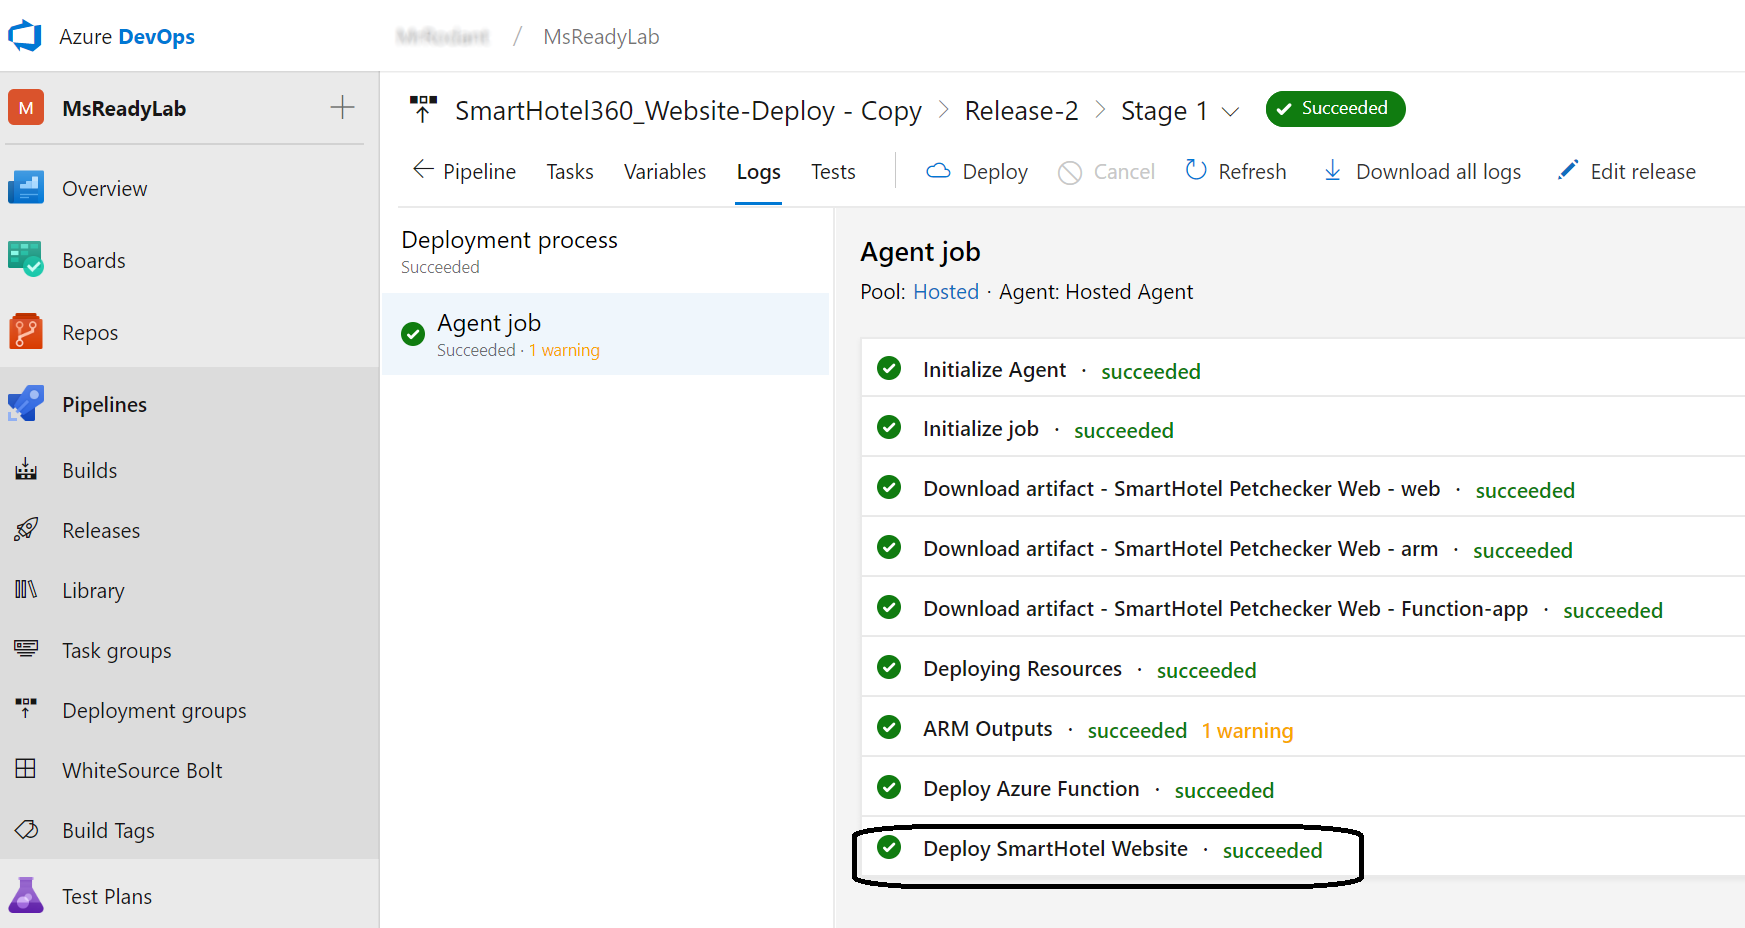
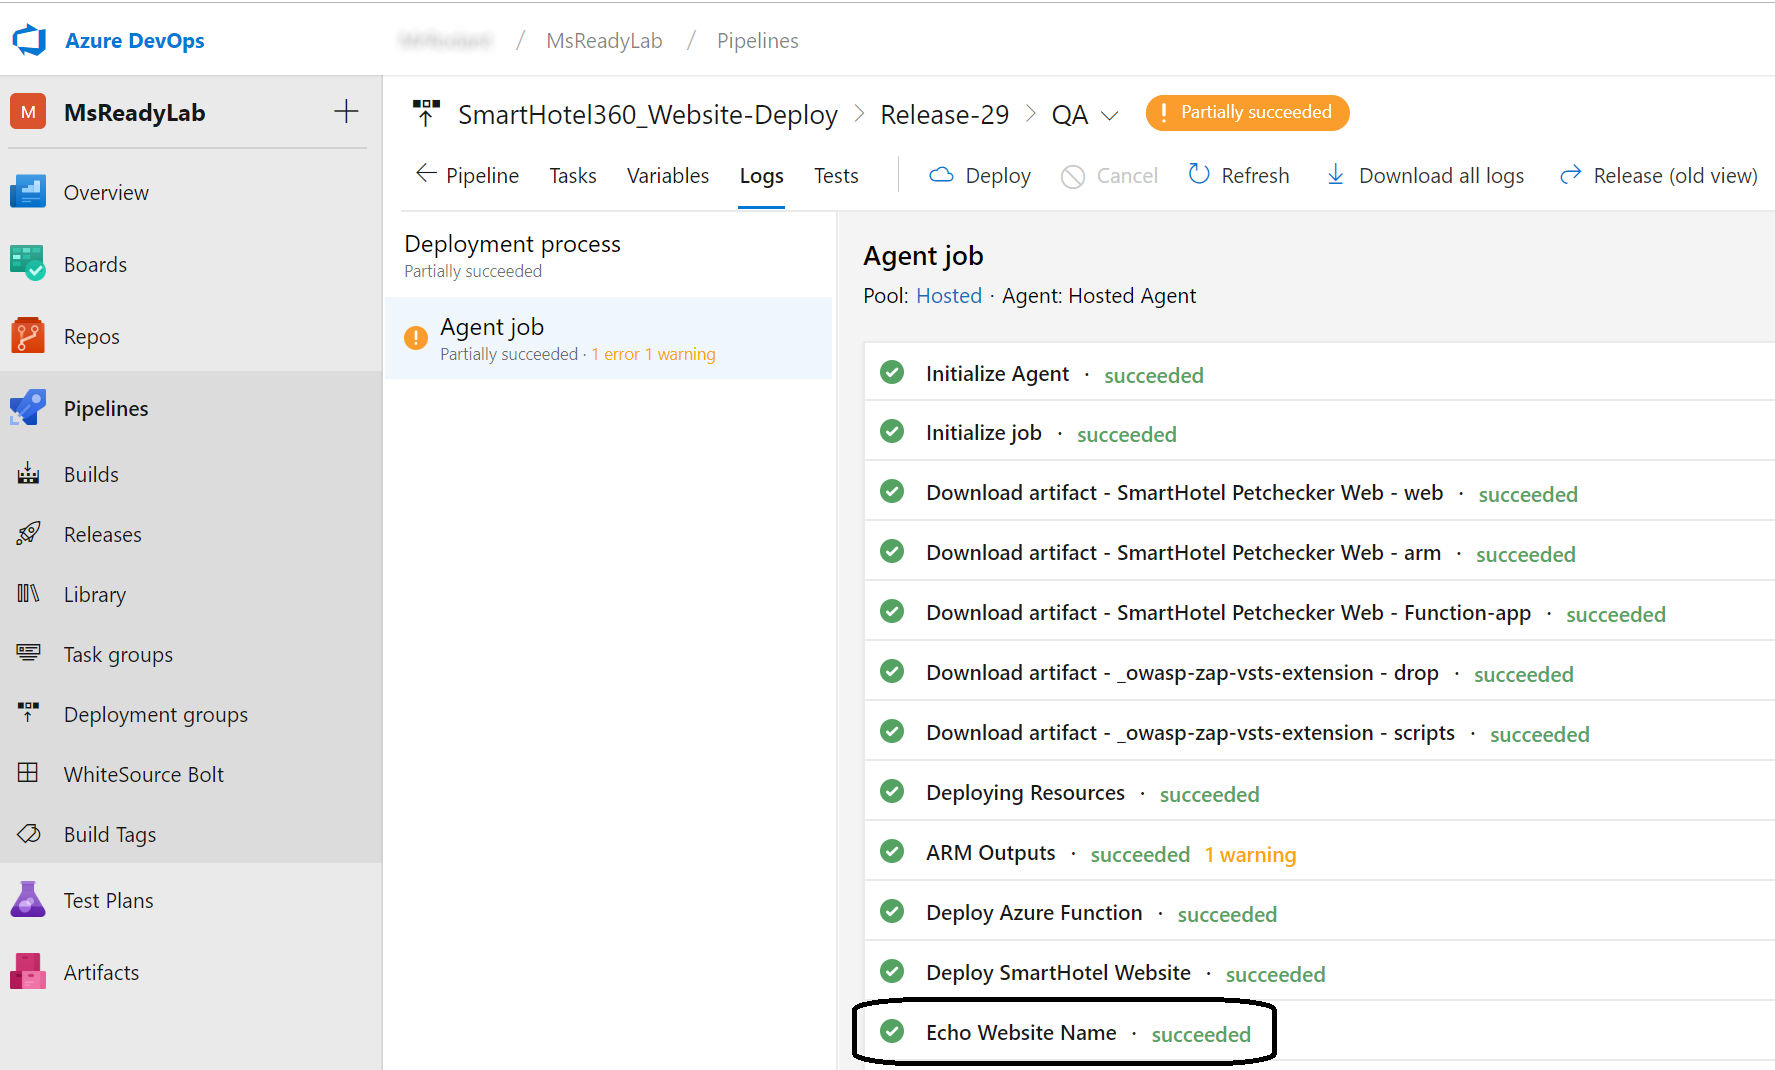
make it easier to get the Website URL and select Azure Subscriptions

diff --git a/README.md b/README.md
@@ -166,8 +166,10 @@ For the release pipeline we'll be leveraging ARM templates and Azure App Service
 
         ![](img/AzureDevOpsLab-Builds-03.png)
 
-        > Change the `Name`, removing the `-import` part.
-        The final name should be **SmartHotel_Petchecker-Web**.
+        Change the `Name`, removing the `-import` part.
+        The final name should be **SmartHotel_Petchecker-Web**, as shown in the image:
+
+        ![](img/AzureDevOpsLab-Builds-031.png)
     
     3. Select the `Hosted VS2017` Agent pool:
 
@@ -206,9 +208,9 @@ For the release pipeline we'll be leveraging ARM templates and Azure App Service
 
         ![](img/AzureDevOpsLab-Releases-02.png)
 
-    2. Navigate back to `All pipelines` and `Import a release pipeline`:
-
         ![](img/AzureDevOpsLab-Releases-04.png)
+
+    2. Navigate back to `All pipelines` and `Import a release pipeline`:
 
         ![](img/AzureDevOpsLab-Releases-05.png)
 
@@ -228,11 +230,13 @@ For the release pipeline we'll be leveraging ARM templates and Azure App Service
 
         ![](img/ReleasePipeline_SetAgentPool.png)
 
-    7. Select the first task and, under *Azure Subscription*, press `New`:
+    7. Select the first task and, under *Azure Subscription*, open the dropdown:
 
         ![](img/AzureDevOpsLab-Releases-09.png)
 
-    8. This opens a pop up where we'll have to fill in the details of our *Azure Subscription*, where we'll be deploying out solution:
+    8. This should show you the Azure subscription your user has access to, and where we'll be deploying out solution:
+
+        ![](img/AzureSubscriptionSelect.png)
 
         Step in each one of the tasks with error, selecting and authorizing an Azure Subscription to use in the lab. 
 
@@ -257,28 +261,23 @@ For the release pipeline we'll be leveraging ARM templates and Azure App Service
 
     ![](img/AzureDevOpsLab-Builds-Run-01.png)
 
-2. Monitor the builds and wait for the build to complete
+2. Monitor the build logs and wait for it to complete
 
    ![](img/AzureDevOpsLab-Builds-Run-end.png)
 
-3. The release will automatically start when the build is complete (be patient, this can take some time). Review the results as it is complete. 
+3. The release will be triggered automatically when the build is complete (be patient, this can take some time). Review the results as it is complete. 
 
    ![](img/AzureDevOpsLab-Releases-Run-executing.png)
 
-4. Navigate to the deploy logs and check the details regarding the last step, `Deploy SmartHotel Website`.
+4. Navigate to the release logs and check the details regarding the last step, `Echo Website Name`.
 
    ![](img/AzureDevOpsLab-Releases-CheckOutput-deploytask.png)
 
-5. Go to the end of the log, and grab the URL of the destination website.
-It should look something like this: `https://smarthotel360lcu4bmxi7kl4w.scm.azurewebsites.net/api/deployments/21548112613183`
-
-    Grab that value.
+    Here you should see the website URL. Press <Ctrl> and click on the URL to navigate to it.
 
     ![](img/AzureDevOpsLab-Releases-CheckOutput-1.png)
 
-6. Using this, remove the `scm` and `api` details, ending up with a URL like: `https://smarthotel360lcu4bmxi7kl4w.azurewebsites.net/`
-
-    Navigate to the new URL and you should be see the website we've just deployed.
+    The website we've just deployed looks like :
 
     ![](img/AzureDevOpsLab-Releases-CheckOutput-site.png)
 
@@ -589,22 +588,14 @@ You need to create an Azure Pipeline for the widget to work. This pipeline is go
 
     ![](img/CostInsights-configuration.png)
 
-    **Pipeline**
-    ```
-    Agent pool: Hosted VS2017
-    ```
+    **Pipeline** -> **Agent pool**: Hosted VS2017
 
-    **Get sources**
-    ```
-    Repository: SmartHotel360-Website
-    ```
-
-    **Download cost data**
-    ```
-    Azure RM Subscription: <Azure subscription being used in the lab>
-    ```
+    **Get sources** -> **Repository**: SmartHotel360-Website
+    
+    **Download cost data** -> **Azure RM Subscription**: `Azure subscription being used in the lab`
 
     When you're finished, your  pipeline will look like this:
+
     ![](img/CostInsights-Import-finish.png)
 
 2. **Queue the build** and wait for it to finish<br/>
